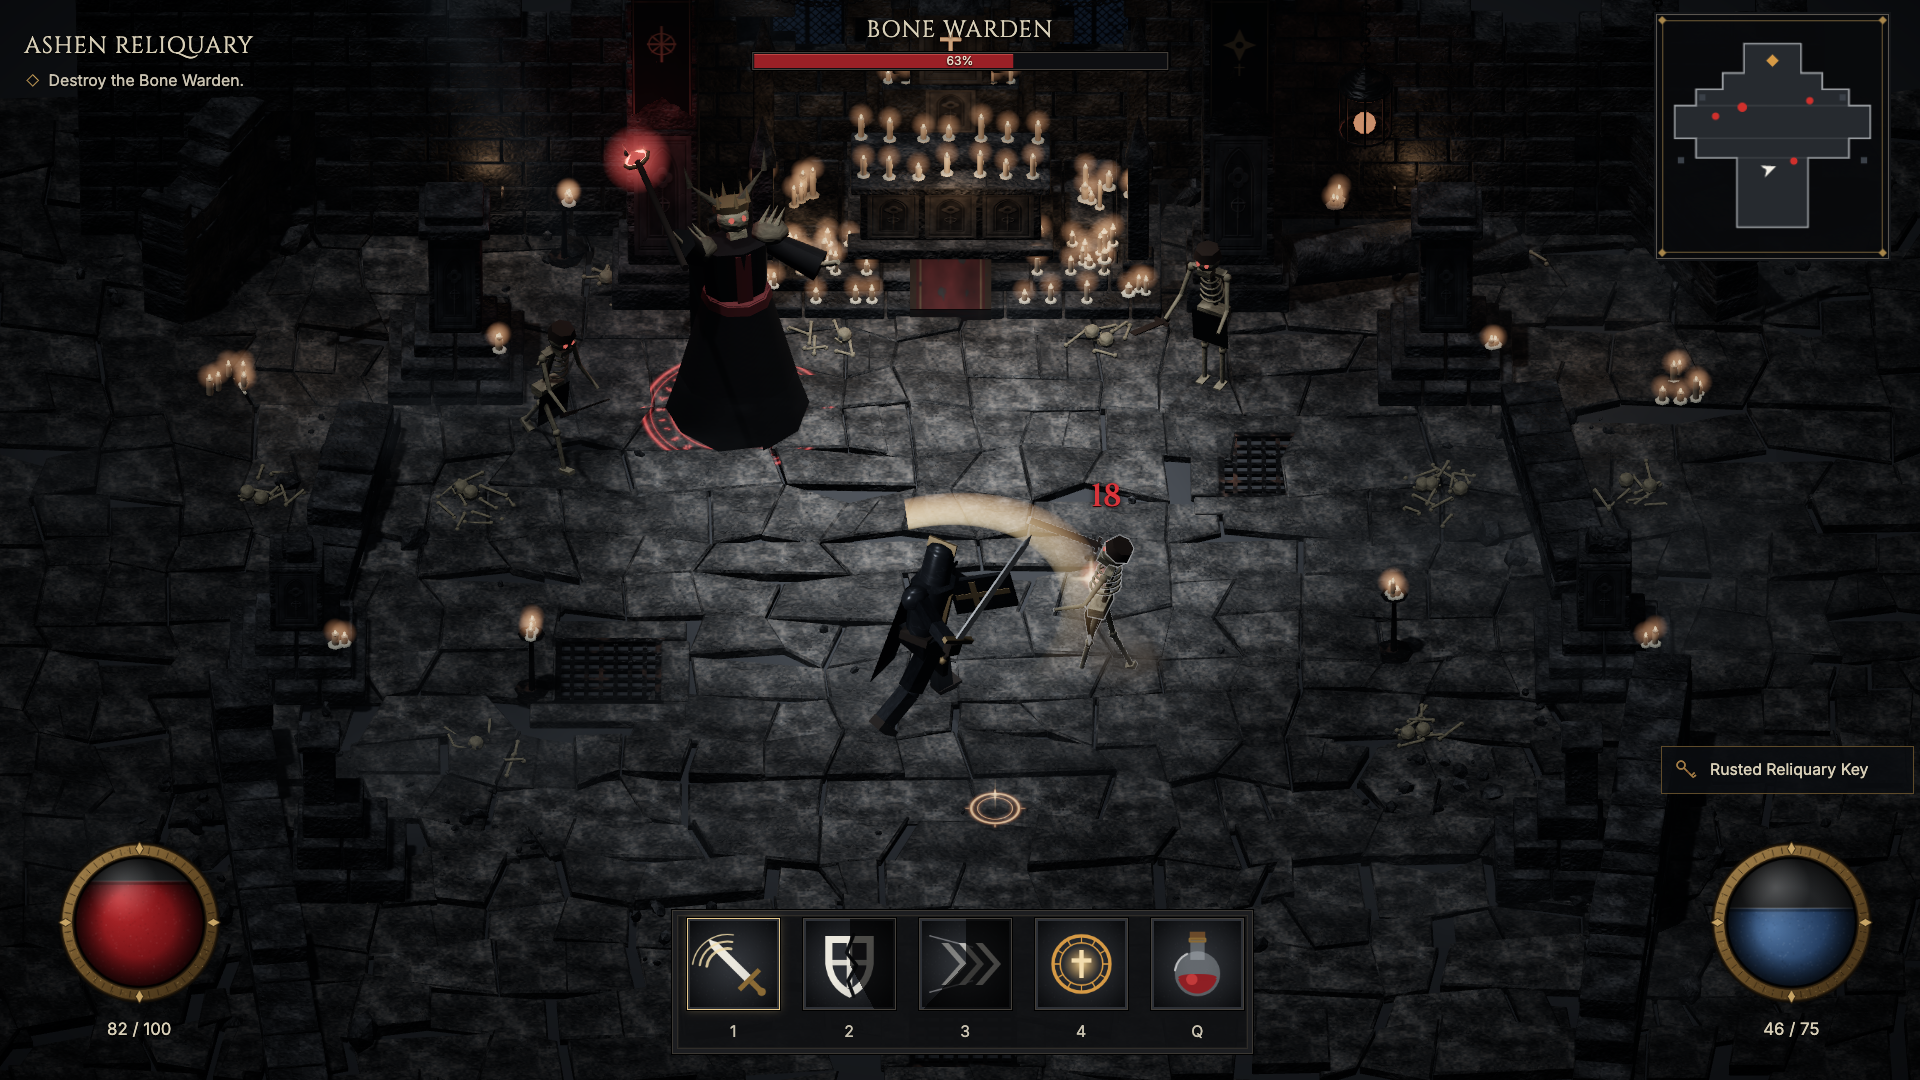
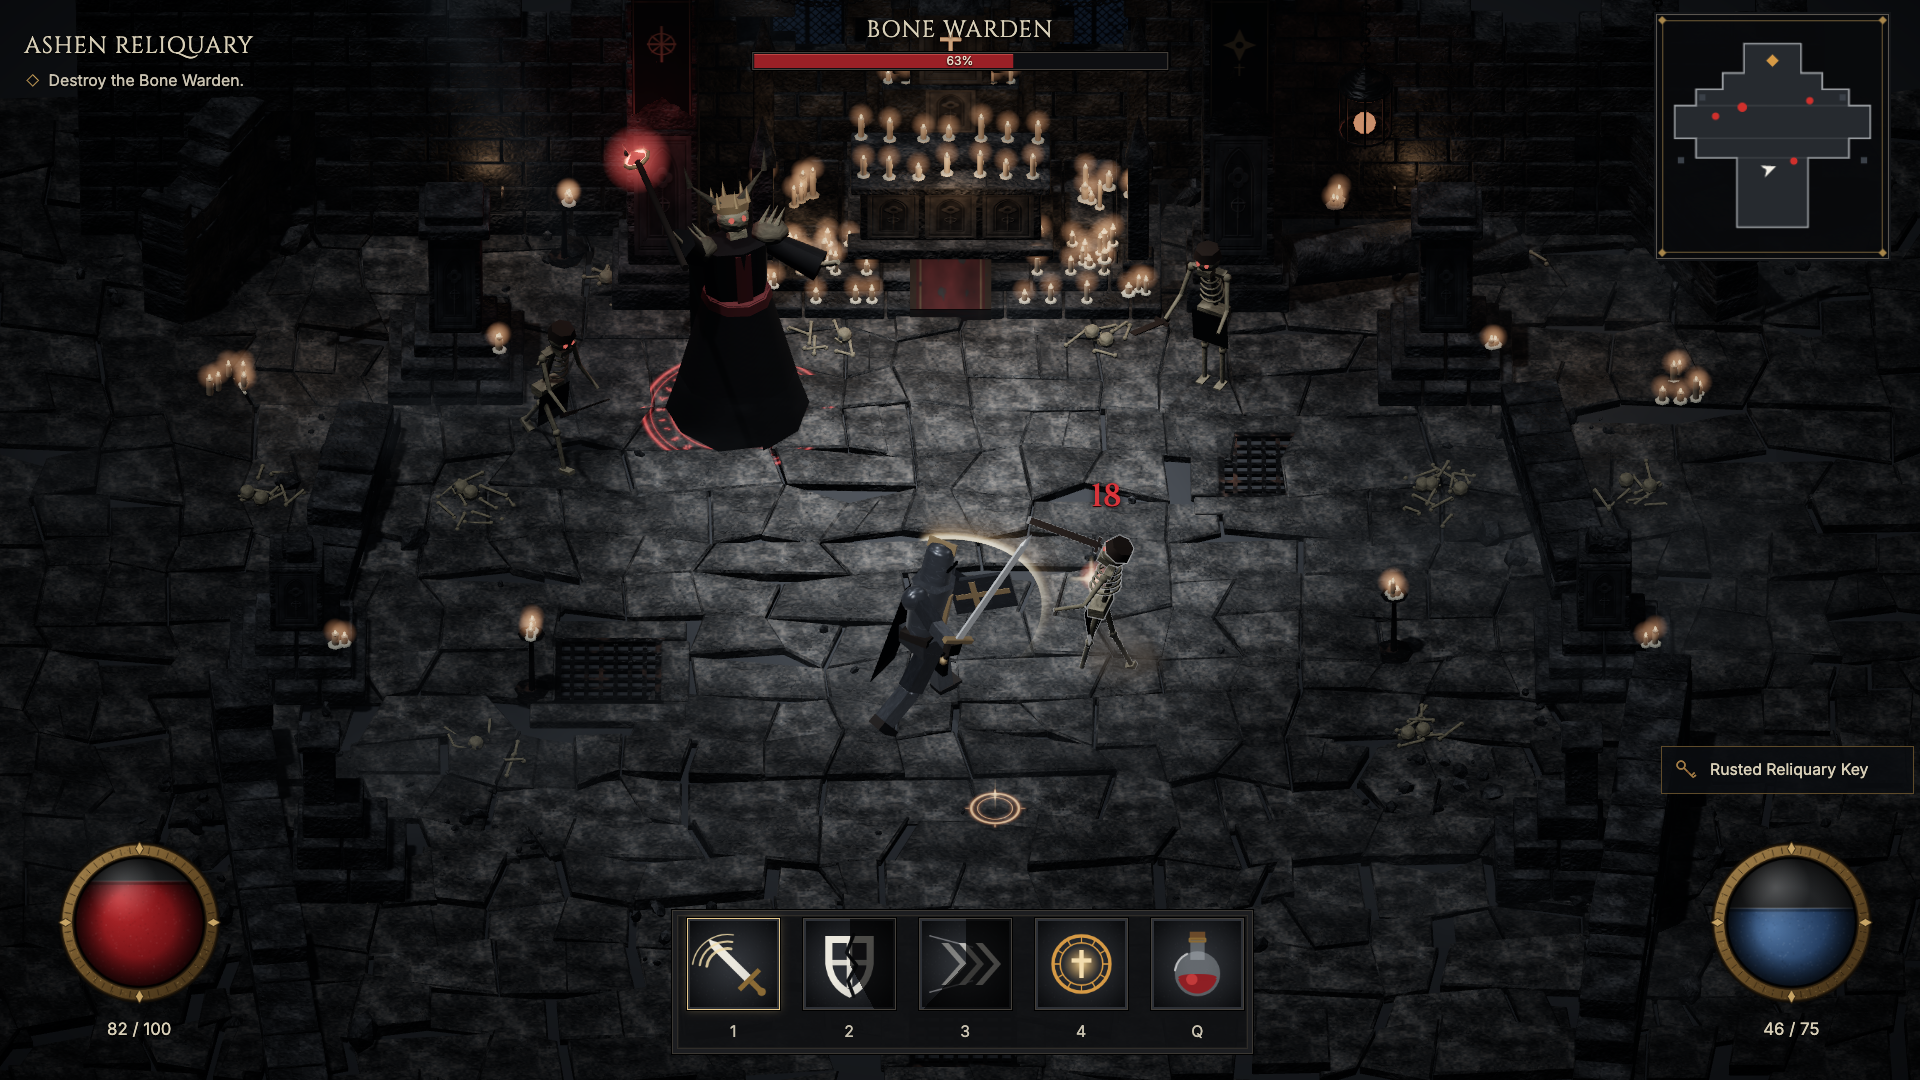
Character look: reflective steel armour (PMREM room env on character materials), darker cape, crisp white-hot slash arc

Changed region(s): [[0.4375, 0.4583, 0.5938, 0.6722], [0.375, 0.1833, 0.4062, 0.2139]]

diff --git a/src/combat.js b/src/combat.js
@@ -23,10 +23,10 @@ function mats() {
   const steel = P.steelSurface(101), bone = P.boneSurface(102), robe = P.clothSurface(103, [30, 24, 26]), cape = P.clothSurface(104, [22, 22, 26]);
   const std = o => new THREE.MeshStandardMaterial({ roughness: 0.8, ...o });
   M = {
-    armor: std({ ...steel, color: '#a4a9b0', metalness: 0.35, roughness: 0.45 }),
-    armorDark: std({ ...steel, color: '#6a6f76', metalness: 0.3, roughness: 0.55 }),
+    armor: std({ ...steel, color: '#b8bdc4', metalness: 0.55, roughness: 0.38, emissive: '#1a1c20', envMapIntensity: 1 }),
+    armorDark: std({ ...steel, color: '#80868e', metalness: 0.45, roughness: 0.5, emissive: '#101114' }),
     leather: std({ color: '#3b2b20', roughness: 0.85 }),
-    cloth: std({ ...cape, color: '#a0a0a8', side: THREE.DoubleSide }),
+    cloth: std({ ...cape, color: '#6a6a72', side: THREE.DoubleSide }),
     brass: std({ color: '#a8823e', metalness: 0.45, roughness: 0.4 }),
     blade: std({ color: '#dfe3e8', metalness: 0.5, roughness: 0.25, emissive: '#2a2a2a' }),
     bone: std({ ...bone, color: '#d6cbb0', roughness: 0.7 }),
@@ -239,7 +239,7 @@ export class Combat {
 
   buildFx() {
     const add = (mesh) => { this.group.add(mesh); return mesh; };
-    this.arc = add(new THREE.Mesh(arcGeometry(1.45, 1.95, -1.25, 1.3), new THREE.MeshBasicMaterial({ map: this.tex.arc, transparent: true, blending: THREE.AdditiveBlending, depthWrite: false, side: THREE.DoubleSide, toneMapped: false, color: '#ffe7b0' })));
+    this.arc = add(new THREE.Mesh(arcGeometry(1.25, 1.9, -1.35, 1.25), new THREE.MeshBasicMaterial({ map: this.tex.arc, transparent: true, blending: THREE.AdditiveBlending, depthWrite: false, side: THREE.DoubleSide, toneMapped: false, color: '#ffe7b0' })));
     this.arc.visible = false;
     this.marker = add(new THREE.Mesh(new THREE.PlaneGeometry(0.95, 0.95), new THREE.MeshBasicMaterial({ map: this.tex.marker, transparent: true, blending: THREE.AdditiveBlending, depthWrite: false, toneMapped: false, color: '#ffd48a' })));
     this.marker.rotation.x = -Math.PI / 2; this.marker.visible = false;
@@ -253,7 +253,7 @@ export class Combat {
     this.staffLight = new THREE.PointLight('#ff3020', 4, 5, 1.6); this.group.add(this.staffLight);
     this.staffGlow = add(new THREE.Sprite(new THREE.SpriteMaterial({ map: this.tex.disc, color: '#ff4030', blending: THREE.AdditiveBlending, depthWrite: false, toneMapped: false, opacity: 0.9 })));
     this.staffGlow.scale.setScalar(0.7 * ACTOR_SCALE);
-    this.knightLight = new THREE.PointLight('#c8d0d8', 9, 7, 1.3); this.group.add(this.knightLight);
+    this.knightLight = new THREE.PointLight('#c8d0d8', 14, 8, 1.2); this.group.add(this.knightLight);
   }
 
   spawnEnemy(kind, x, z, seed) {
@@ -429,7 +429,7 @@ export class Combat {
       this.staffGlow.position.copy(gp); this.staffLight.position.copy(gp);
       this.staffGlow.visible = !w.dead; this.staffLight.intensity = w.dead ? 0 : 6 + Math.sin(t * 6) * 1.5;
     }
-    this.knightLight.position.set(k.pos.x - 1.5, 3.2, k.pos.z + 2.0);
+    this.knightLight.position.set(k.pos.x - 1.5, 3.2 * ACTOR_SCALE, k.pos.z + 2.0);
     for (const e of this.enemies) if (e.J.outline) { const on = e === this.target && !e.dead; e.J.outline.forEach(o => o.visible = on); }
     // projectiles
     for (const p of this.projectiles) {
@@ -658,4 +658,5 @@ export class Combat {
     };
   }
   setVisible(v) { this.group.visible = v; }
+  setEnvironment(env, k) { const m = mats(); for (const key of ['armor', 'armorDark', 'blade', 'brass']) { m[key].envMap = env; m[key].envMapIntensity = k; m[key].needsUpdate = true; } }
 }

diff --git a/src/pixel.js b/src/pixel.js
@@ -358,14 +358,18 @@ export function markerTex() {
 }
 
 // Slash trail: bright leading edge fading toward the tail, soft radial falloff.
+// Slash trail: a thin white-hot leading edge with fine streaks trailing into a soft amber falloff.
 export function arcTex() {
-  const w = 512, h = 64;
+  const w = 512, h = 64, r = rng(404);
+  const streak = Array.from({ length: h }, () => 0.6 + r() * 0.4);
   return toTexture(alphaCanvas(w, h, (x, y) => {
     const u = x / (w - 1), v = y / (h - 1);
-    const along = Math.pow(u, 1.6);
-    const across = Math.pow(Math.sin(Math.PI * v), 0.6) * (0.45 + 0.55 * v);
-    const a = clamp01(along * across * 1.3);
-    return [255, 236 - 40 * (1 - v), 170 - 80 * (1 - v), 255 * a];
+    const along = Math.pow(u, 2.2) * smooth(1, 0.93, u);
+    const edge = Math.exp(-Math.pow((1 - v) / 0.09, 2));            // bright outer rim
+    const body = Math.pow(v, 3) * 0.35 * streak[y];                // faint streaks toward the rim
+    const a = clamp01(along * (edge + body) * 1.5);
+    const hot = clamp01(edge * 1.4);
+    return [255, 214 + 41 * hot, 140 + 115 * hot, 255 * a];
   }), { repeat: false });
 }
 

diff --git a/src/main.js b/src/main.js
@@ -6,6 +6,7 @@ import { RenderPass } from 'three/addons/postprocessing/RenderPass.js';
 import { UnrealBloomPass } from 'three/addons/postprocessing/UnrealBloomPass.js';
 import { ShaderPass } from 'three/addons/postprocessing/ShaderPass.js';
 import { OutputPass } from 'three/addons/postprocessing/OutputPass.js';
+import { RoomEnvironment } from 'three/addons/environments/RoomEnvironment.js';
 import { World } from './world.js';
 import { Combat, ABILITIES } from './combat.js';
 import { UI } from './ui.js';
@@ -123,6 +124,11 @@ const combat = new Combat(scene, world, {
   },
 });
 combat.setVisible(false);
+// A dim generated studio environment gives the knight's steel something to reflect.
+{
+  const pm = new THREE.PMREMGenerator(renderer), env = pm.fromScene(new RoomEnvironment(), 0.04).texture;
+  combat.setEnvironment(env, 0.35); pm.dispose();
+}
 
 function applyLive(s) {
   settingsLive = { ...s };
